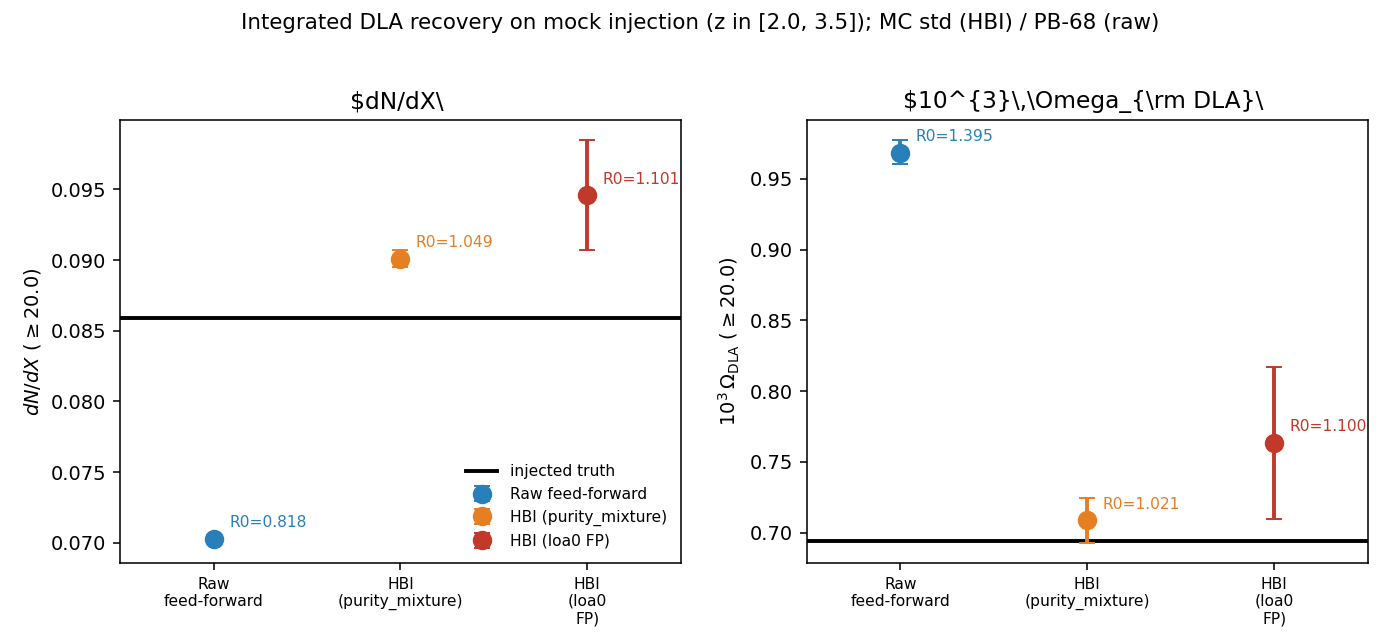
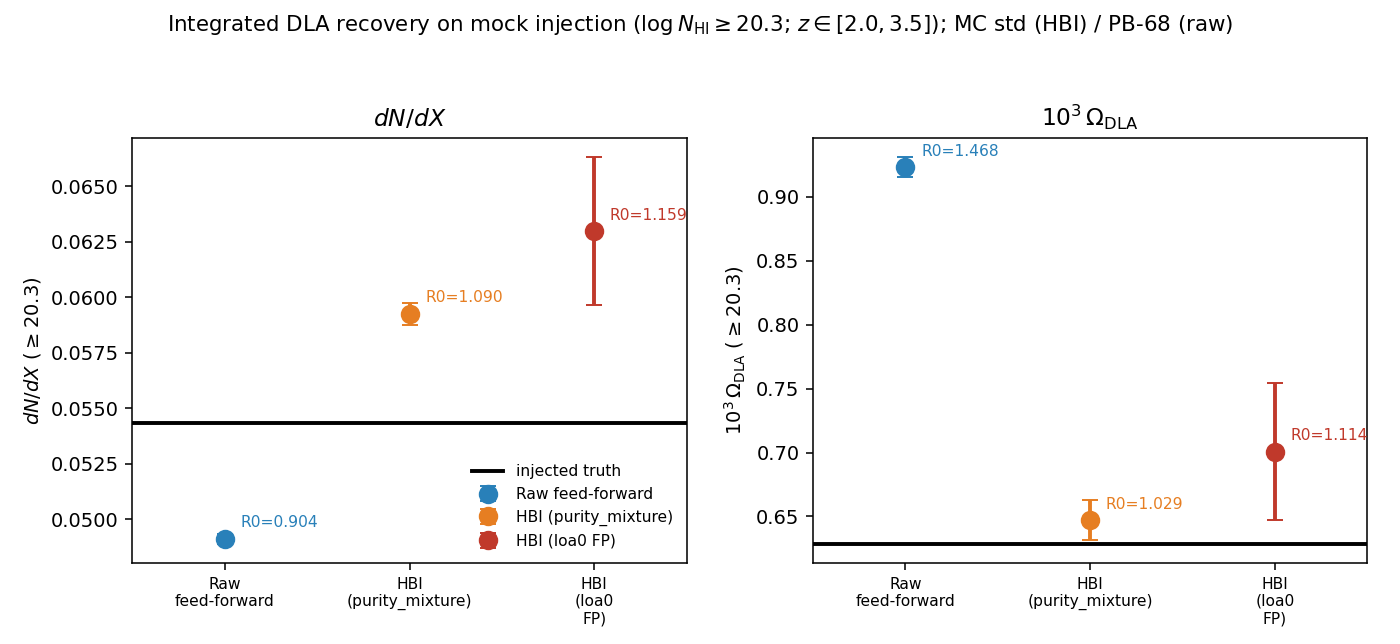
hbi/README: fix integrated figure (>=20.3 + LaTeX), correct sigma_tot to +/-8-9%, de-stale cross-mock claim, add reproducible figure generator
Claude-Session: https://claude.ai/code/session_01YDCEaTDSmsKEgzc9fB28dL

diff --git a/CDDF_analysis/hbi/figures/make_compare_figs.py b/CDDF_analysis/hbi/figures/make_compare_figs.py
@@ -1,0 +1,186 @@
+#!/usr/bin/env python3
+"""make_compare_figs.py -- regenerate the two catalog-HBI mock-validation figures
+shown in ``CDDF_analysis/hbi/README.md``:
+
+  * ``fig_compare_integrated.png`` -- integrated dN/dX and 10^3*Omega_DLA at the
+    **logN_HI >= 20.3 DLA headline**, for the raw feed-forward, both HBI FP
+    variants (purity_mixture, loa0), vs the injected mock truth, with R0
+    (= method/truth) annotated.
+  * ``fig_compare_fN.png`` -- the differential f(N_HI): the raw feed-forward tail
+    is too flat (drives the Omega over-statement) and HBI's kernel deconvolution
+    re-steepens it back onto the injected truth; the one-sided HBI MC band is
+    shown for the loa0 variant.
+
+SELF-CONTAINED & REPRODUCIBLE: reads ONLY the committed sibling table
+``compare_mock_data.csv`` (small MOCK-injection numbers, truth known -- no
+real-survey values). No private-repo or scratch-cache dependency at run time.
+
+These are MOCK numbers (2LPT-0 injection validation) and are fine to commit
+publicly.  Matplotlib Agg (headless).
+
+Run:
+  HDF5_USE_FILE_LOCKING=FALSE conda run -n gpdla python \
+      CDDF_analysis/hbi/figures/make_compare_figs.py
+"""
+from __future__ import annotations
+import csv
+import os
+
+import numpy as np
+import matplotlib
+matplotlib.use("Agg")
+import matplotlib.pyplot as plt
+
+HERE = os.path.dirname(os.path.abspath(__file__))
+CSV = os.path.join(HERE, "compare_mock_data.csv")
+
+# Headline DLA threshold. The catalog in compare_mock_data.csv is the >=20.3
+# integrated block; the f(N) differential block spans the full reported range.
+THRESHOLD = "20.3"
+
+
+def load_csv(path=CSV):
+    """Parse the multi-section CSV into {section_name: list[dict]}."""
+    sections: dict[str, list[dict]] = {}
+    cur_name = None
+    cur_header = None
+    cur_rows: list[dict] = []
+    with open(path) as f:
+        for raw in f:
+            line = raw.rstrip("\n")
+            if not line.strip() or line.lstrip().startswith("#"):
+                continue
+            if line.startswith("section,"):
+                if cur_name is not None:
+                    sections[cur_name] = cur_rows
+                cur_name = line.split(",", 1)[1].strip()
+                cur_header = None
+                cur_rows = []
+                continue
+            if cur_header is None:
+                cur_header = next(csv.reader([line]))
+                continue
+            vals = next(csv.reader([line]))
+            cur_rows.append(dict(zip(cur_header, vals)))
+        if cur_name is not None:
+            sections[cur_name] = cur_rows
+    return sections
+
+
+# ---------------------------------------------------------------------------
+# Figure 1: integrated dN/dX & Omega at >= 20.3
+# ---------------------------------------------------------------------------
+def fig_integrated(sections, out=None):
+    out = out or os.path.join(HERE, "fig_compare_integrated.png")
+    rows = sections["integrated"]
+    # index by (method, quantity)
+    tab = {(r["method"], r["quantity"]): r for r in rows}
+
+    methods = [("raw_feedforward", "Raw feed-forward", "#2980b9"),
+               ("HBI_purity_mixture", "HBI (purity_mixture)", "#e67e22"),
+               ("HBI_loa0", "HBI (loa0 FP)", "#c0392b")]
+
+    fig, axes = plt.subplots(1, 2, figsize=(10, 4.6))
+    panels = [
+        (axes[0], "dndx", r"$dN/dX$ $(\geq 20.3)$",
+         r"$dN/dX$", 1.0),
+        (axes[1], "omega", r"$10^{3}\,\Omega_{\rm DLA}$ $(\geq 20.3)$",
+         r"$10^{3}\,\Omega_{\rm DLA}$", 1e3),
+    ]
+    for ax, q, ylab, title, scale in panels:
+        t = float(tab[(methods[0][0], q)]["truth"]) * scale
+        ax.axhline(t, color="k", lw=2, ls="-", label="injected truth", zorder=1)
+        for i, (key, lab, col) in enumerate(methods):
+            r = tab[(key, q)]
+            val = float(r["value"]) * scale
+            if r["err_kind"] == "std":
+                err = float(r["err_lo"]) * scale
+            else:  # ci68 -> asymmetric [lo, hi]
+                lo = float(r["err_lo"]) * scale
+                hi = float(r["err_hi"]) * scale
+                err = np.array([[val - lo], [hi - val]])
+            ax.errorbar([i], [val], yerr=err, fmt="o", color=col, ms=9,
+                        capsize=4, lw=2, label=lab, zorder=3)
+            ax.annotate(f"R0={float(r['R0']):.3f}", (i, val),
+                        textcoords="offset points", xytext=(8, 6),
+                        fontsize=8, color=col)
+        ax.set_xticks(range(len(methods)))
+        ax.set_xticklabels([m[1].replace(" ", "\n") for m in methods], fontsize=8)
+        ax.set_ylabel(ylab)
+        ax.set_title(title)
+        ax.set_xlim(-0.5, len(methods) - 0.5)
+    axes[0].legend(frameon=False, fontsize=8, loc="lower right")
+    fig.suptitle("Integrated DLA recovery on mock injection "
+                 r"($\log N_{\rm HI}\geq 20.3$; $z\in[2.0,3.5]$); "
+                 "MC std (HBI) / PB-68 (raw)", fontsize=11)
+    fig.tight_layout(rect=[0, 0, 1, 0.95])
+    fig.savefig(out, dpi=140)
+    plt.close(fig)
+    return out
+
+
+# ---------------------------------------------------------------------------
+# Figure 2: differential f(N_HI)
+# ---------------------------------------------------------------------------
+def fig_fN(sections, out=None):
+    out = out or os.path.join(HERE, "fig_compare_fN.png")
+    fN = sections["fN"]
+    logN = np.array([float(r["logN_mid"]) for r in fN])
+    f_truth = np.array([float(r["f_truth"]) for r in fN])
+    f_loa0 = np.array([float(r["f_hbi_loa0"]) for r in fN])
+    f_pm = np.array([float(r["f_hbi_pm"]) for r in fN])
+    band_lo = np.array([float(r["f_loa0_band_lo"]) for r in fN])
+    band_hi = np.array([float(r["f_loa0_band_hi"]) for r in fN])
+
+    rff = sections["fN_rawff"]
+    rN = np.array([float(r["logN_mid"]) for r in rff])
+    rf = np.array([float(r["f_rawff"]) for r in rff])
+    rlo = np.array([float(r["f_rawff_lo"]) for r in rff])
+    rhi = np.array([float(r["f_rawff_hi"]) for r in rff])
+
+    fig, ax = plt.subplots(figsize=(7.2, 5.6))
+    ax.plot(logN, f_truth, "k-", lw=2.4, label="injected truth", zorder=5)
+    ax.fill_between(logN, band_lo, band_hi, color="#c0392b", alpha=0.18,
+                    zorder=2, label="HBI (loa0) MC 68%")
+    ax.plot(logN, f_loa0, "o-", color="#c0392b", lw=1.8, ms=4,
+            label="HBI (loa0 FP)", zorder=4)
+    ax.plot(logN, f_pm, "s--", color="#e67e22", lw=1.4, ms=3,
+            label="HBI (purity_mixture)", zorder=3)
+    m = rf > 0
+    ax.plot(rN[m], rf[m], "^-", color="#2980b9", lw=1.6, ms=4,
+            label="Raw feed-forward (calc_cddf)", zorder=2)
+    ax.fill_between(rN[m], rlo[m], rhi[m], color="#2980b9", alpha=0.15, zorder=1)
+    for x in (20.0, 20.3):
+        ax.axvline(x, color="0.6", ls=":", lw=1)
+    ax.set_yscale("log")
+    ax.set_xlim(19.5, 22.0)
+    ax.set_xlabel(r"$\log_{10} N_{\rm HI}\ [{\rm cm^{-2}}]$")
+    ax.set_ylabel(r"$f(N_{\rm HI})\ [{\rm cm^{2}}]$")
+    ax.set_title("Mock-injection DLA CDDF: HBI vs raw feed-forward vs injected truth")
+    ax.legend(frameon=False, fontsize=9)
+    ax.text(20.32, ax.get_ylim()[1] * 0.4, "DLA edge 20.3", fontsize=7,
+            color="0.4", rotation=90, va="top")
+    fig.tight_layout()
+    fig.savefig(out, dpi=140)
+    plt.close(fig)
+    return out
+
+
+def main():
+    sections = load_csv()
+    p_int = fig_integrated(sections)
+    p_fN = fig_fN(sections)
+    # echo the headline R0 numbers so the run is self-checking against the README
+    tab = {(r["method"], r["quantity"]): r for r in sections["integrated"]}
+    print("wrote:", p_int)
+    print("wrote:", p_fN)
+    print(f"integrated >= {THRESHOLD} R0:")
+    for key in ("raw_feedforward", "HBI_purity_mixture", "HBI_loa0"):
+        rd = tab[(key, "dndx")]
+        ro = tab[(key, "omega")]
+        print(f"  {key:20s} dN/dX R0={float(rd['R0']):.3f}  "
+              f"Omega R0={float(ro['R0']):.3f}")
+
+
+if __name__ == "__main__":
+    main()

diff --git a/CDDF_analysis/hbi/README.md b/CDDF_analysis/hbi/README.md
@@ -17,29 +17,50 @@ measurement kernel and subtracts the false-positive rate.
   `run_bayes_select.py`, `dlasearch.py` are never modified) and there is **zero
   re-inference**.
 - **Mock figures only in-repo.** The figures here are from a **mock-injection
-  validation** (truth known). Real-survey figures and numbers are not committed.
+  validation** (truth known) and are regenerated from a committed mock table
+  (`figures/compare_mock_data.csv` + `figures/make_compare_figs.py`). Real-survey
+  figures and numbers are **not** committed.
 
 ## Headline result (mock-injection validation)
 
-On a mock-injection test (DLA truth known), the catalog-HBI estimator recovers
-the injected DLA population, and in particular corrects the two failure modes of
-a raw feed-forward (uncorrected-posterior) measurement: the **incompleteness
-deficit** in dN/dX and the **Ω over-statement** from the uncorrected high-N_HI
-posterior tail.
+On a mock-injection test (DLA truth known), at the **logN_HI ≥ 20.3 DLA headline**
+the catalog-HBI estimator recovers the injected DLA population, and in particular
+corrects the two failure modes of a raw feed-forward (uncorrected-posterior)
+measurement: the **incompleteness deficit** in dN/dX and the **Ω over-statement**
+from the uncorrected high-N_HI posterior tail.
+
+Integrated recovery ratios **R0 = method / injected-truth** at logN_HI ≥ 20.3
+(`z ∈ [2.0, 3.5]`, the numbers annotated on the figure):
+
+| method | dN/dX R0 | Ω R0 |
+|---|---|---|
+| raw feed-forward (uncorrected) | **0.904** (−9.6% deficit) | **1.468** (Ω blow-up; 1.61 at ≥20.6 → "40–61%") |
+| HBI purity_mixture (headline) | **1.090** (+9%) | **1.029** (+3%) |
+| HBI loa0 (conservative cross-check) | **1.159** (+16%) | **1.114** (+11%) |
+
+i.e. HBI recovers the injected truth at ≥20.3 to **~9% (purity_mixture headline) /
+~16% (loa0) in dN/dX** and **~3% / ~11% in Ω**, while the raw feed-forward
+*under-counts* dN/dX by ~10% yet *over-states* Ω by ~47–61% (the un-deconvolved
+high-N posterior tail).
 
 | ![integrated](figures/fig_compare_integrated.png) | ![f(N)](figures/fig_compare_fN.png) |
 |:--:|:--:|
-| Integrated dN/dX & Ω_DLA: HBI vs raw feed-forward vs injected truth | Differential f(N_HI): the high-N tail HBI re-steepens |
+| Integrated dN/dX & Ω_DLA at **logN_HI ≥ 20.3**: HBI vs raw feed-forward vs injected truth | Differential f(N_HI): the high-N tail HBI re-steepens |
 
-- `figures/fig_compare_integrated.png` — integrated dN/dX and Ω_DLA for both HBI
-  FP variants vs the raw feed-forward vs the injected truth, with R0 (=
-  method/truth) annotated.
+- `figures/fig_compare_integrated.png` — integrated dN/dX and Ω_DLA at
+  **logN_HI ≥ 20.3** for both HBI FP variants vs the raw feed-forward vs the
+  injected truth, with R0 (= method/truth) annotated.
 - `figures/fig_compare_fN.png` — the differential f(N_HI): the raw feed-forward
   tail is too flat (drives the Ω over-statement); HBI's kernel deconvolution
-  re-steepens it.
+  re-steepens it back onto the injected truth.
 
-> **What the mock validates — and what it does NOT.** The on-mock R0 ≈ 1
-> ("recovers truth to ~3–9%") is a **self-consistency** check, *not* an
+Both figures are regenerated reproducibly from the committed mock table by
+**[`figures/make_compare_figs.py`](figures/make_compare_figs.py)** (reads only
+`figures/compare_mock_data.csv`; see *Reproducing the figures* below).
+
+> **What the mock validates — and what it does NOT.** The on-mock R0 ≈ 1 at the
+> ≥20.3 headline (HBI over-recovers dN/dX by ~9% (purity_mixture) to ~16% (loa0),
+> and Ω by ~3% to ~11%) is a **self-consistency** check, *not* an
 > external-calibration claim. The completeness / kernel correction is fit on the
 > *same* mock's truth, so by construction the corrected estimate is pulled toward
 > that truth — the residual α = 1/R0 → 1 is a near-**tautology**. This demonstrates
@@ -47,9 +68,13 @@ posterior tail.
 > marginalized band) is arithmetically sound; it does **not** prove the calibration
 > *transfers*. The real, non-circular test is **cross-mock**: build the
 > kernel/completeness on one mock and check α(z) ≈ 1 on a *held-out* mock or survey
-> (London, Saclay, real LOA) **without refitting**. That cross-mock validation is
-> **not in this PR**. Treat the mock R0 as self-consistency; treat the cross-mock /
-> real-LOA literature agreement as the calibration evidence.
+> (London, Saclay, real LOA) **without refitting**. The cross-mock **drivers are
+> included** here — `track_c_tf_2lpt1.py`, `track_c_tf_london0.py`,
+> `track_c_tf_loa.py` (transfer / freeze-kernel-and-apply runners) — and the
+> validated transfer result (London-0 done, Saclay pending) is reported in the
+> analysis-notes paper draft, not duplicated in this README. Treat the mock R0 as
+> self-consistency; treat the cross-mock / real-LOA literature agreement as the
+> calibration evidence.
 
 ## Uncertainty budget (read before quoting an error bar)
 
@@ -62,18 +87,26 @@ established:
   (use `n_mc ≥ 240`), and ~1.2–1.6× wider than a plain sightline bootstrap. It
   carries the truth-match bootstrap (C/ρ/g), the inner Laplace, the per-object
   N_HI width, and the kernel-calibration MC.
-- **It is NOT the total uncertainty.** For a science claim, combine in quadrature:
+- **It is NOT the total uncertainty.** For a science claim, combine the *symmetric*
+  terms in quadrature — and keep the *one-sided* high-N kernel-shape term as a
+  **separate signed line**, because it is a bias (the truth lies above the high-N
+  points), not scatter, and folding it into the symmetric quadrature double-counts
+  and over-inflates σ_tot:
 
   | term | dN/dX | Ω |
   |---|---|---|
   | statistical band (this MC) | ~0.7–1.7% | ~1% |
   | model-shape / B-spline penalty (λ) | **≈ band-sized (→ ~√2× wider)** | <1% (shape-robust) |
   | mean-flux | 1–2% | 1–2% |
-  | high-N tail / shoulder deficit (one-sided) | mostly cancels (R0≈0.94) | **~11%** |
-  | **σ_tot (rough)** | **±15–17%** | **±12%** |
+  | integrated DLA-tier method/kernel spread (pm↔loa0 pre-α) | ~8–9% | — |
+  | Ω deep-tail / high-N shoulder (symmetric part) | — | ~11–12% |
+  | **σ_tot (symmetric, rough)** | **±8–9%** | **±12–16%** |
+  | high-N kernel-shape deep-tail (ONE-SIDED, *not* summed in) | bias: truth **above** points (R0 0.68→0.40 at logN≳21.6) | bias: Ω point ~11% low |
 
-  Under σ_tot, literature anchors that differ from each other by ~15% are mutually
-  consistent at <1σ — a ~1% statistical band cannot envelope them, by construction.
+  Under σ_tot, literature anchors that differ from each other by ~10–15% are mutually
+  consistent at ≲1σ — a ~1% statistical band cannot envelope them, by construction.
+  The one-sided deep-tail row is a *systematic flag*, reported separately, never
+  added into the symmetric ±8–9% / ±12–16% quadrature.
 
 - **Two caveats the band does NOT absorb:**
   1. **High-N tail bias (one-sided).** On-mock the MAP under-recovers the high-N
@@ -90,12 +123,33 @@ established:
   MAP point (`band_recenter`, the same first-order Jensen correction as the
   integrated dN/dX/Ω); without it the band floats ~17.5% above the line.
 
+## Reproducing the figures
+
+The two README figures are regenerated from a small **committed, self-contained**
+mock table — no private-repo or scratch-cache dependency at run time:
+
+```bash
+HDF5_USE_FILE_LOCKING=FALSE conda run -n gpdla python \
+    CDDF_analysis/hbi/figures/make_compare_figs.py
+```
+
+- `figures/make_compare_figs.py` — the committed generator; reads **only**
+  `figures/compare_mock_data.csv` and writes `fig_compare_integrated.png`
+  (integrated dN/dX & 10³·Ω at logN_HI ≥ 20.3) and `fig_compare_fN.png`
+  (differential f(N_HI)). It prints the headline R0 values for a self-check
+  against the table above.
+- `figures/compare_mock_data.csv` — the committed mock-injection numbers
+  (2LPT-0 validation; truth known). Integrated ≥20.3 block + the differential
+  f(N_HI) arrays (truth / HBI loa0 / HBI purity_mixture / raw feed-forward, plus
+  the HBI loa0 MC 68% band). **MOCK values only — no real-survey numbers.**
+
 ## Full documentation
 
-The end-to-end tutorial (runnable notebook + script), the complete reporting
-conventions and known limitations, the synthesis reducer, and the per-mock
-figures live in the **private analysis-notes repository** (not in this public
-code repo), under `hbi/`.
+The figure *generator* is committed here (above); the **full end-to-end pipeline
+tutorial** (runnable notebook + script that re-runs the estimator from a frozen
+catalog), the complete reporting conventions and known limitations, the synthesis
+reducer, and the per-mock figures live in the **private analysis-notes repository**
+(not in this public code repo), under `hbi/`.
 
 ## Code referenced (not modified)
 
